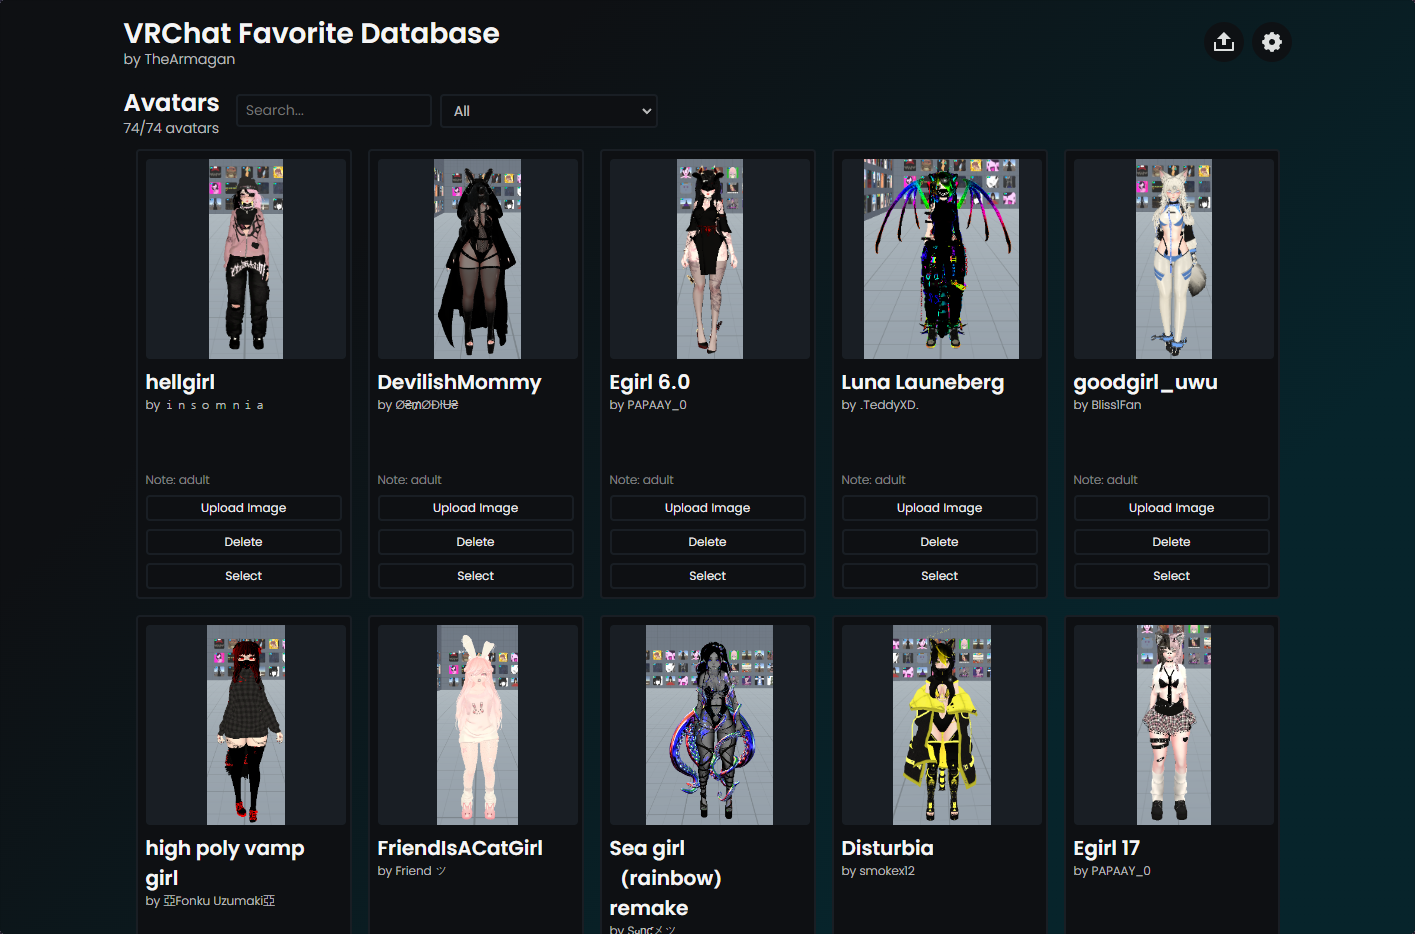
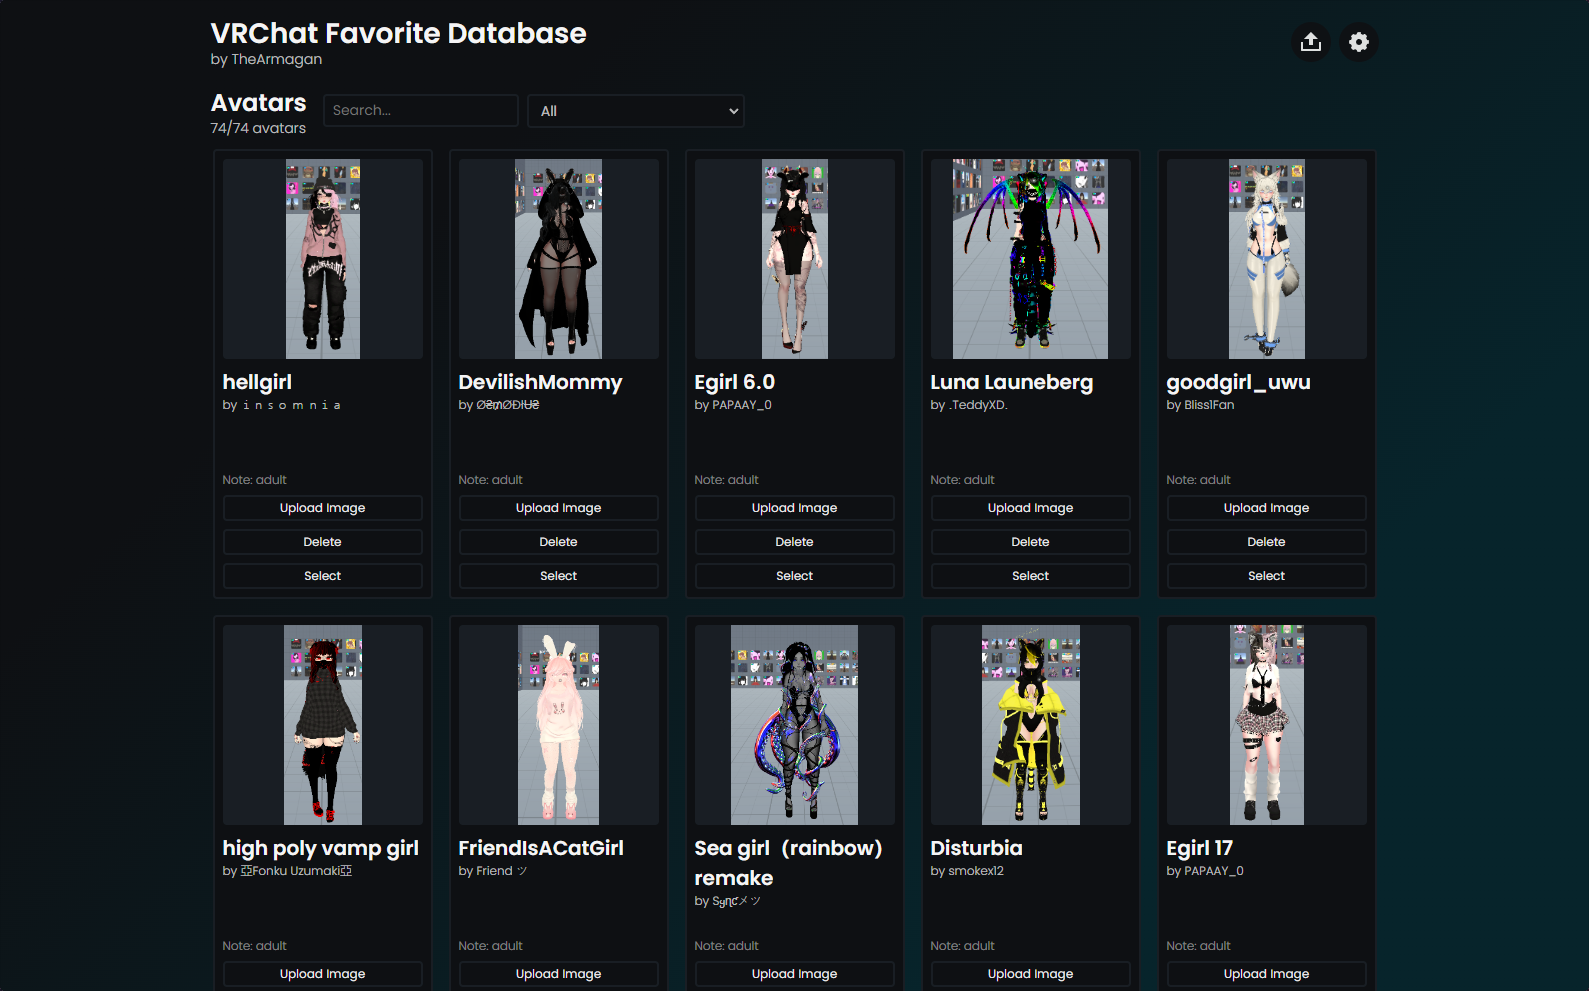
a

diff --git a/public/app/style.scss b/public/app/style.scss
@@ -195,8 +195,8 @@ body {
         border-radius: 4px;
         color: rgba(245, 245, 245, 0.75);
         height: 450px;
-        width: 216px;
-        max-width: 216px;
+        width: 220px;
+        max-width: 220px;
         display: flex;
         flex-direction: column;
         gap: 8px;
@@ -234,6 +234,9 @@ body {
             & > .name {
               font-size: 20px;
               font-weight: 600;
+              text-wrap: wrap;
+              word-wrap: break-word;
+              overflow-wrap: break-word;
             }
 
             & > .author {
@@ -241,6 +244,9 @@ body {
               font-weight: 300;
               color: rgba(245, 245, 245, 0.75);
               line-height: 1.25;
+              text-wrap: wrap;
+              word-wrap: break-word;
+              overflow-wrap: break-word;
             }
           }
 

diff --git a/public/app/style.css b/public/app/style.css
@@ -169,8 +169,8 @@ body {
   border-radius: 4px;
   color: rgba(245, 245, 245, 0.75);
   height: 450px;
-  width: 216px;
-  max-width: 216px;
+  width: 220px;
+  max-width: 220px;
   display: flex;
   flex-direction: column;
   gap: 8px;
@@ -205,12 +205,18 @@ body {
 #app > .avatars-container > .avatar-list .avatar-model > .info > .title > .name {
   font-size: 20px;
   font-weight: 600;
+  text-wrap: wrap;
+  word-wrap: break-word;
+  overflow-wrap: break-word;
 }
 #app > .avatars-container > .avatar-list .avatar-model > .info > .title > .author {
   font-size: 12px;
   font-weight: 300;
   color: rgba(245, 245, 245, 0.75);
   line-height: 1.25;
+  text-wrap: wrap;
+  word-wrap: break-word;
+  overflow-wrap: break-word;
 }
 #app > .avatars-container > .avatar-list .avatar-model > .info > .bottom {
   display: flex;
